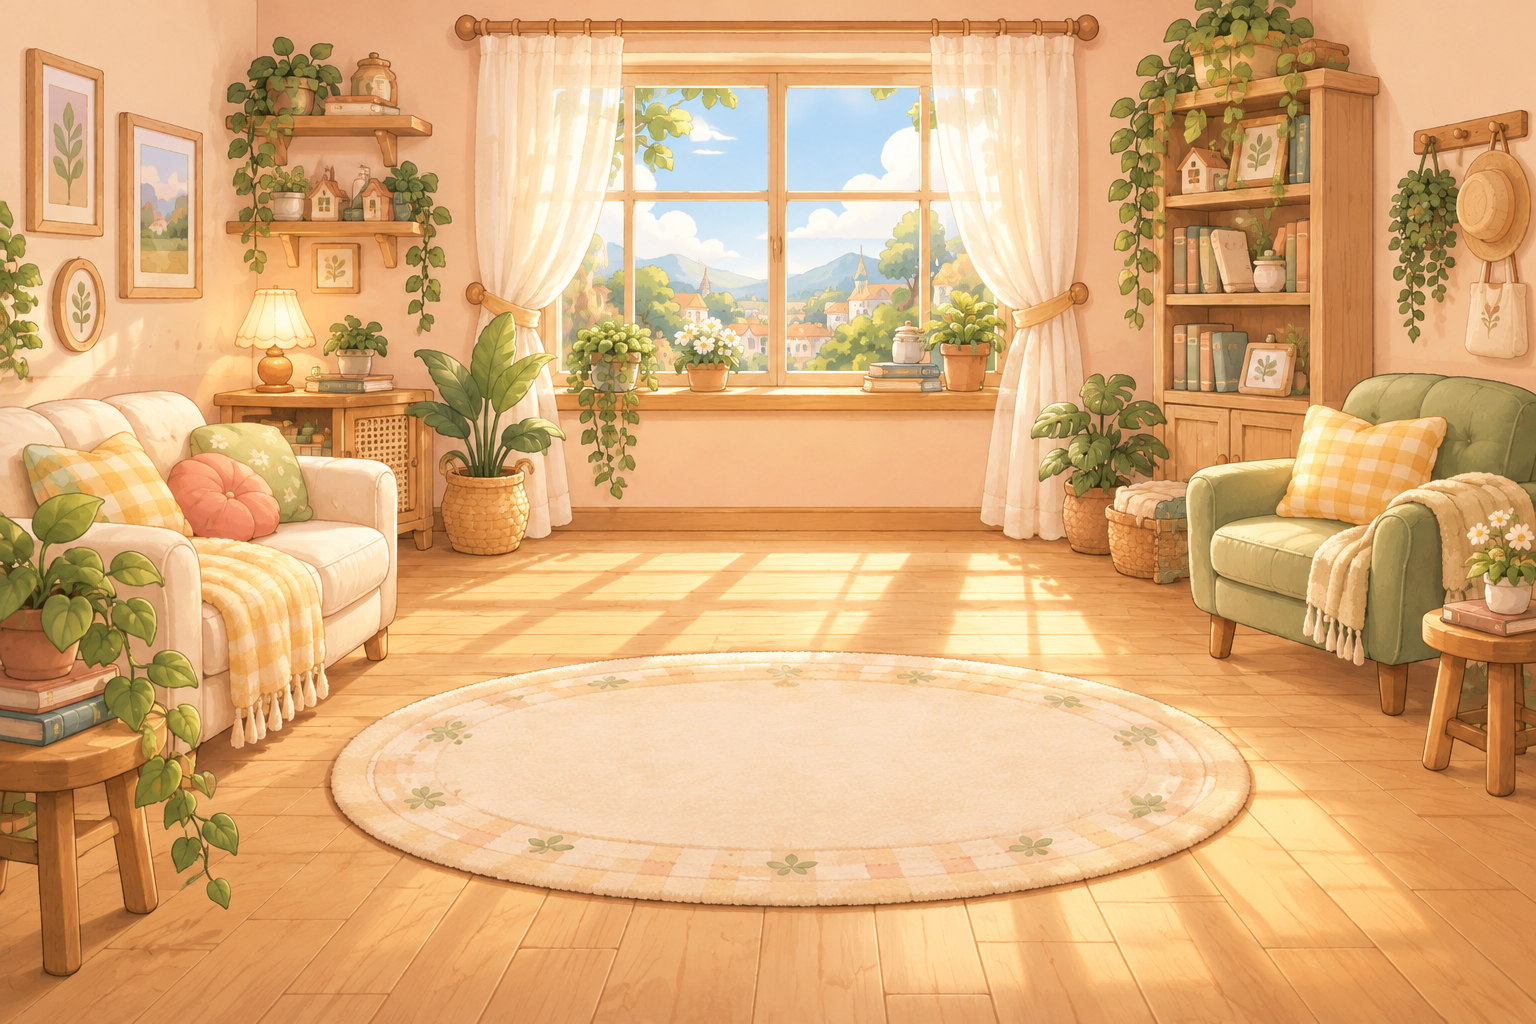
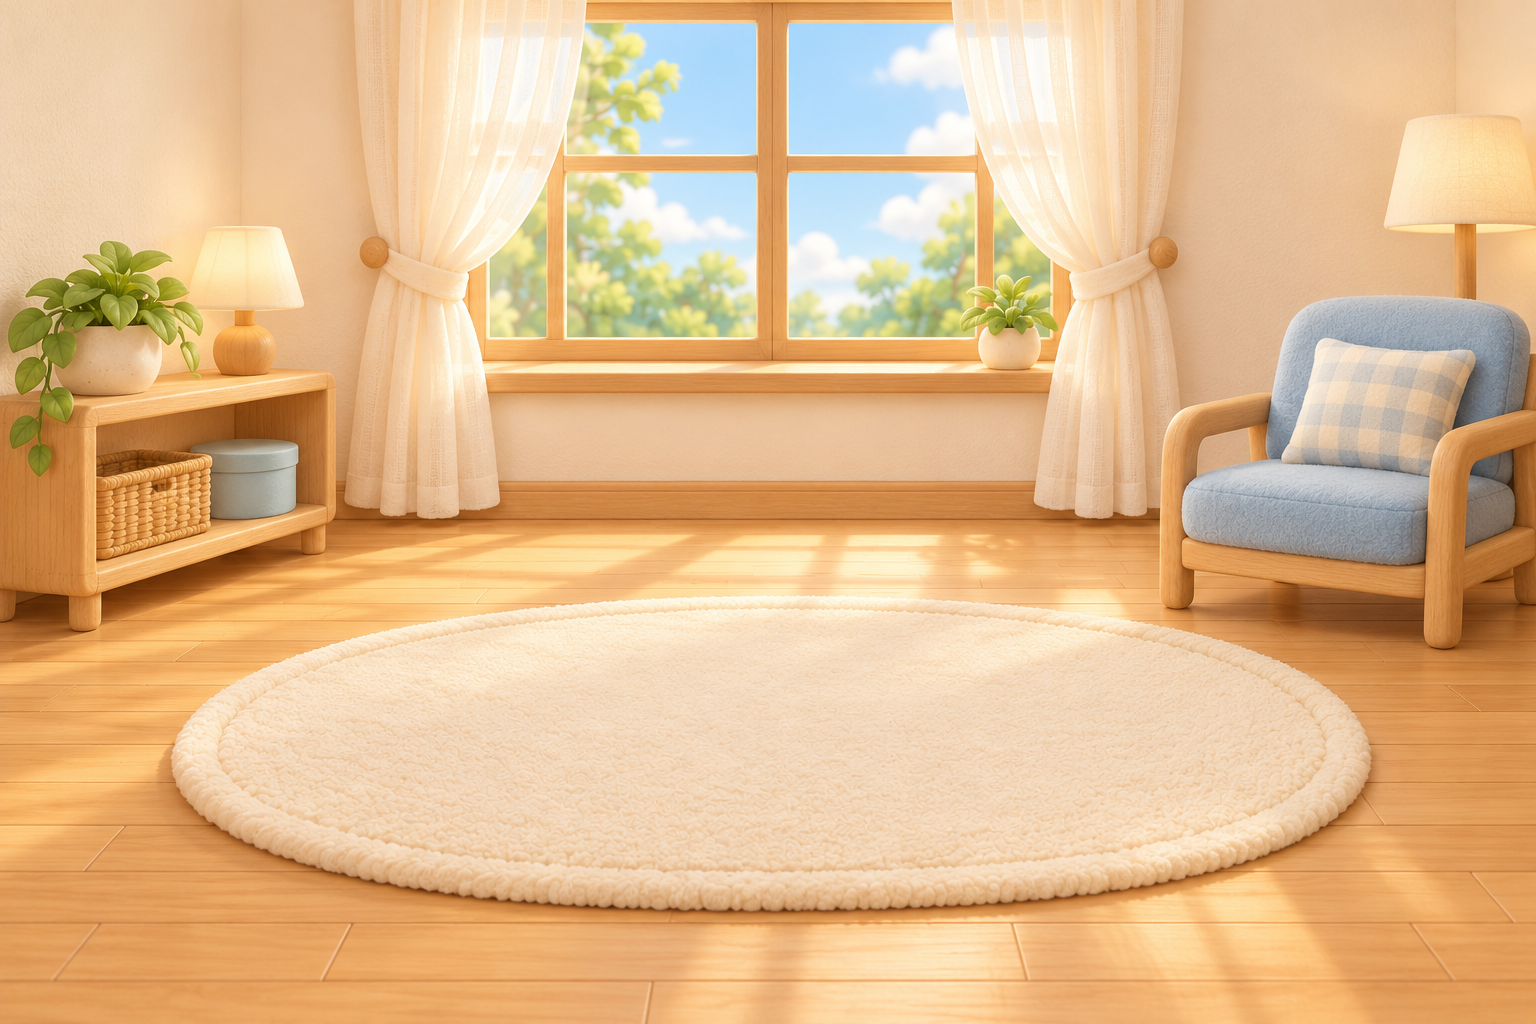
feat(assets): stage miniature dollhouse room

diff --git a/assets/illustrated/README.md b/assets/illustrated/README.md
@@ -1,6 +1,6 @@
 # Illustrated pilot assets
 
-This is the first finished visual set for the room redesign: a sunny room, rabbit and cat companions, three reusable shop furniture sprites, and one birthday memory-table sprite. The visual direction is a miniature dollhouse product set: compact rounded geometry, soft plush animal bodies, pale wood and muted pastel materials, and uncluttered isometric presentation. All PNG files are transparent where they are rendered as sprites; the room is a full-scene background.
+This is the first finished visual set for the room redesign: a sunny miniature dollhouse room, rabbit and cat companions, three reusable shop furniture sprites, and one birthday memory-table sprite. The visual direction is a miniature dollhouse product set: compact rounded geometry, soft plush animal bodies, pale wood and muted pastel materials, and uncluttered isometric presentation. The room keeps its central rug open for four companion sprites; all other PNG files are transparent where they are rendered as sprites.
 
 The catalog remains intentionally mixed during production: `cushion-shell`, `table-round-cookie`, `plant-round-rubber-tree`, and `memory-dining-table-birthday-table` use these finished assets, while the remaining catalog entries resolve through the same manifest with placeholders. This preserves the catalog, room, shop, inventory, and memory-furniture contract while the rest of the art is commissioned or replaced.
 

diff --git a/docs/decisions.md b/docs/decisions.md
@@ -296,10 +296,11 @@
 ## D-031 미니어처 인형·가구 에셋 톤
 
 - 상태: 채택
-- 결정: 동물은 둥근 봉제 인형/펠트 질감의 소형 collectible, 가구는 따뜻한 옅은 목재와
-  크림·파우더 블루를 쓰는 미니어처 dollhouse 제품으로 표현한다. 모든 신규 에셋은
-  아이소메트릭에 가까운 3/4 시점, 단일 명확한 기능, 제한된 소품과 단순한 실루엣을 지킨다.
-  이름·개인 포인트 색상은 PNG 안이 아니라 UI에서 제공한다.
+- 결정: 동물은 둥근 봉제 인형/펠트 질감의 소형 collectible, 가구와 방은 따뜻한 옅은 목재와
+  크림·파우더 블루를 쓰는 미니어처 dollhouse 제품으로 표현한다. 방 배경의 중앙 바닥은 네
+  동물과 배치 가구를 위한 비어 있는 무대로 유지한다. 모든 신규 에셋은 아이소메트릭에 가까운
+  3/4 시점, 단일 명확한 기능, 제한된 소품과 단순한 실루엣을 지킨다. 이름·개인 포인트 색상은
+  PNG 안이 아니라 UI에서 제공한다.
 - 이유: 과한 장식·광택·서사적 소품이 섞인 생성형 일러스트 인상을 피하고, 실제 작은
   방 모형처럼 일관된 스케일·재질·가독성을 유지하기 위해서다.
 - 비용: 털·목재 표현은 촉감만 전달하는 수준으로 제한하며, 개별 에셋의 스타일 변형은

diff --git a/docs/progress.md b/docs/progress.md
@@ -199,7 +199,7 @@ Build를 설치한 실제 기기에서 별도로 기록한다.
 
 ## 에셋 현황
 
-- 방: 햇살 창가 방 일러스트 1종 연결 완료
+- 방: 햇살 창가 방을 중앙 러그가 비어 있는 미니어처 dollhouse 무대로 교체 완료
 - 동물: 토끼·고양이 본체를 미니어처 봉제 인형 스타일로 교체 완료, 나머지 종과 본체
   애니메이션은 제작 전
 - 상점 아이템 40종: 카탈로그·렌더 메타데이터 완료, 쿠션·탁자·고무나무 3종은 완성 일러스트, 나머지는 placeholder
